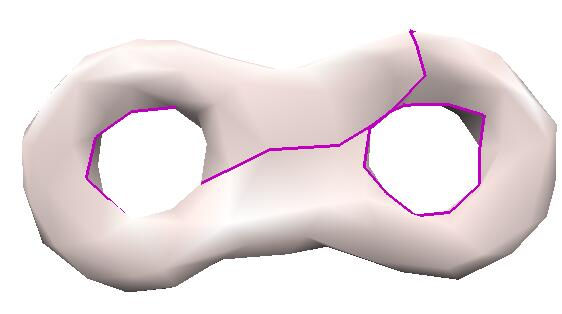
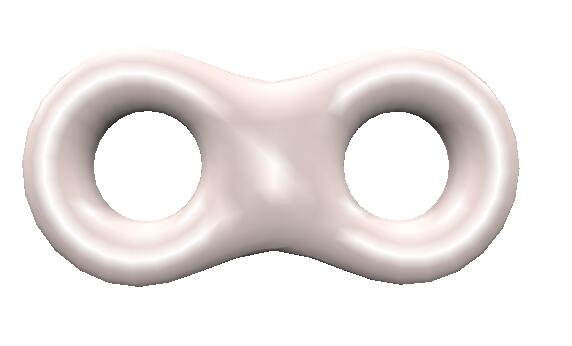
TODO: Check the function and compute_bc and face_area

diff --git a/test.py b/test.py
@@ -8,31 +8,31 @@ from dbgtool.dbgtool import *
 
 
 
-
-
-F, V = read_off('data/sphere.off')
-
-uvw = spherical_conformal_map(F, V)
-
-plot_mesh(F, uvw)
-
-
-
-
 #
-# face, vertex = read_off('data/eight.off')
 #
-# # show_mesh(face, vertex)
-# u = hyperbolic_ricci_flow(face, vertex)
-# bi = 0
-# hb = compute_greedy_homotopy_basis(face, vertex, bi)
-# face_new,vertex_new,father = slice_mesh(face, vertex, hb)
-# # show_mesh(face_new, vertex_new)
-# z = hyperbolic_embed(face_new,  u[father])
-# z = move_mc_to_zero(z)
+# F, V = read_off('data/sphere.off')
 #
-# # ucs = compute_ucs_h(face_new,vertex_new,z,hb,father)
+# uvw = spherical_conformal_map(F, V)
 #
-# show_mesh(face_new, np.concatenate((z.real[:,None],z.imag[:,None], z.real[:,None]*0),axis=1))
-# # plot_mesh(face_new, np.concatenate((z.real[:,None],z.imag[:,None]),axis=1))
+# plot_mesh(F, uvw)
+
+
+
+
+
+face, vertex = read_off('data/eight.off')
+
+show_mesh(face, vertex)
+u = hyperbolic_ricci_flow(face, vertex)
+bi = 0
+hb = compute_greedy_homotopy_basis(face, vertex, bi)
+face_new,vertex_new,father = slice_mesh(face, vertex, hb)
+show_mesh(face_new, vertex_new)
+z = hyperbolic_embed(face_new,  u[father])
+z = move_mc_to_zero(z)
+
+# ucs = compute_ucs_h(face_new,vertex_new,z,hb,father)
+
+show_mesh(face_new, np.concatenate((z.real[:,None],z.imag[:,None], z.real[:,None]*0),axis=1))
+# plot_mesh(face_new, np.concatenate((z.real[:,None],z.imag[:,None]),axis=1))
 
